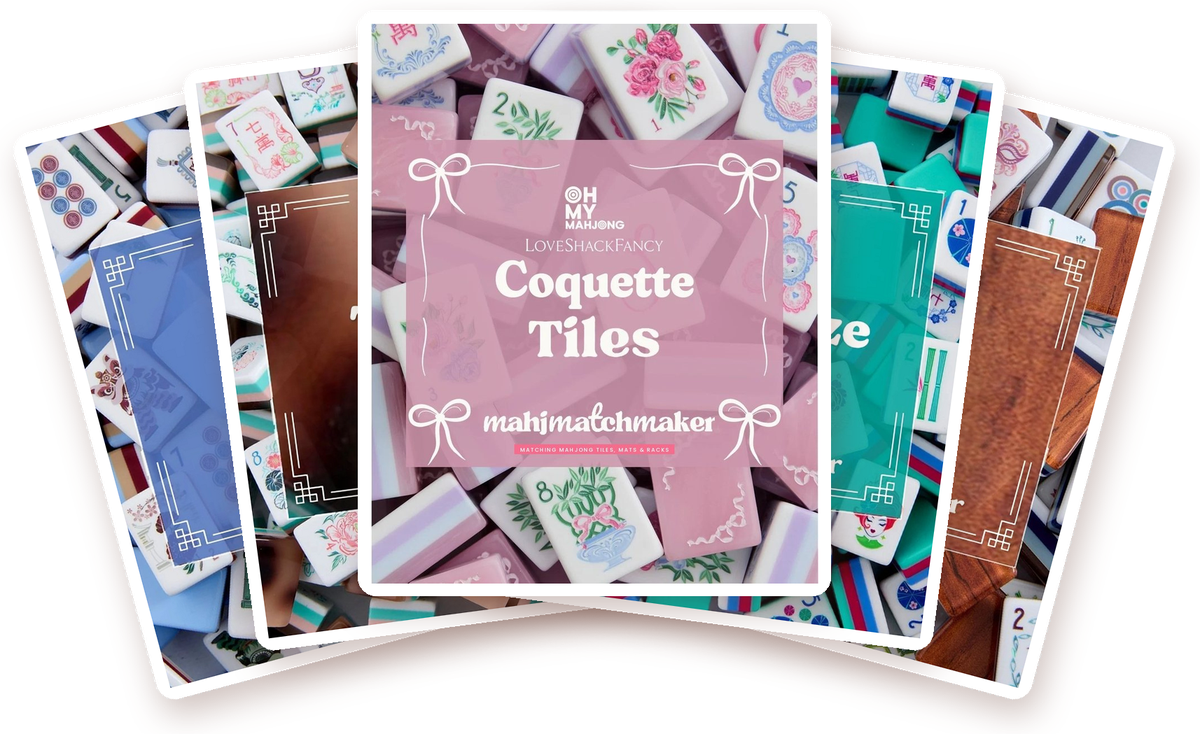
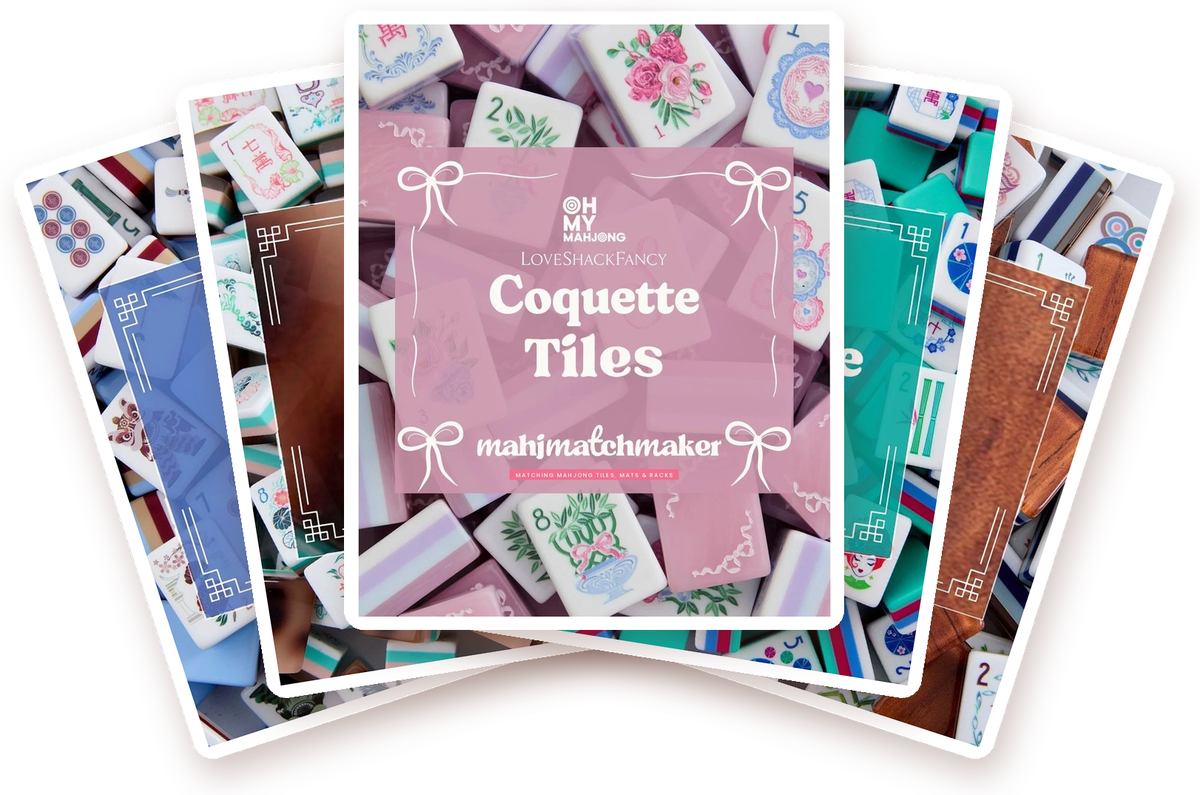
WIP from running agents
Claude-Session: https://claude.ai/code/session_014aKoC1ZMdZPjGkZ9kHhnLk

diff --git a/site/livepatch/home-oct21/make_step3_image.py b/site/livepatch/home-oct21/make_step3_image.py
@@ -3,8 +3,8 @@
 
 v2 (Tiffany, Oct 21 2:05pm): "bigger, no pink background" -> TRANSPARENT PNG, cropped tight to
 the fan of the newest album covers (only a small margin for the soft shadows), so the fan "just
-hangs there" on the section's own background (#FDF0E6 at 390/1280/1440). The fan's bounding box
-is tuned to ~522x382 (step 1's image column on desktop) so object-fit:contain fills the column;
+hangs there" on the section's own background (#FDF0E6 at 390/1280/1440). The fan fills the full width
+of step 1's image column on desktop (522 wide at 1280, 588 at 1440), centred in its 522x382 box;
 on phones it shows at full width with its natural height, so no cover is clipped.
 v1 (Oct 21 12:22) was a 1200x880 JPG on blush with a lot of empty pink.
 """
@@ -14,11 +14,12 @@ from PIL import Image, ImageDraw, ImageFilter
 R = os.path.abspath(os.path.join(os.path.dirname(__file__), '..', '..', '..'))
 C = os.path.join(R, 'assets/covers/albums/w800/')
 OUT = os.path.join(R, 'assets/site/home/how-it-works-3-new-matches-first.png')
-TARGET_AR = 522 / 382          # step 1's image column at 1280
 OUT_W = 1200                   # 2.3x the 522px desktop column, sharp on retina
 W, H = 2600, 2000              # work canvas, cropped afterwards
 covers = ['00-osler', '00-talulah', '00-coquette', '00-seabreeze', '00-smith']  # centre = newest (Coquette)
-rots = [15, 7.5, 0, -7.5, -15]
+rots = [18, 9, 0, -9, -18]
+SPREAD = 170                   # px between card centres on the work canvas
+DROP = 3.5                     # outer cards sit lower: dy = |dx| / DROP (fan arc)
 cw = 640                       # cover width on the work canvas
 SH_BLUR, SH_DX, SH_DY, SH_A = 22, 8, 22, 0.30
 SH_RGB = (96, 52, 40)          # warm brown shadow, reads soft on the peach section background
@@ -48,7 +49,7 @@ def render(spread):
         shp = Image.new('RGBA', (c.width + 2 * p, c.height + 2 * p), SH_RGB + (0,))
         shp.alpha_composite(sh, (p, p))
         shp = shp.filter(ImageFilter.GaussianBlur(SH_BLUR))
-        cx = W // 2 + xs[i]; cy = H // 2 + abs(xs[i]) // 5
+        cx = W // 2 + xs[i]; cy = H // 2 + int(abs(xs[i]) / DROP)
         canvas.alpha_composite(shp, (cx - c.width // 2 - p + SH_DX, cy - c.height // 2 - p + SH_DY))
         canvas.alpha_composite(c, (cx - c.width // 2, cy - c.height // 2))
     # tight crop: alpha > ~2% keeps the visible shadow, drops the invisible tail
@@ -56,10 +57,10 @@ def render(spread):
     return canvas.crop(bbox)
 
 
-# pick the card spread whose fan box is closest to the desktop column's shape
-fans = {s: render(s) for s in range(200, 420, 10)}
-best = min(fans, key=lambda s: abs(fans[s].width / fans[s].height - TARGET_AR))
-fan = fans[best]
+# 5 portrait covers can't reach 522:382 without hiding the side covers; SPREAD 170 gives ~1.51,
+# so on desktop the fan fills the column's full width (~522x346 at 1280), centred vertically.
+best = SPREAD
+fan = render(SPREAD)
 out = fan.resize((OUT_W, round(OUT_W * fan.height / fan.width)), Image.LANCZOS)
 os.makedirs(os.path.dirname(OUT), exist_ok=True)
 out.save(OUT, optimize=True)
